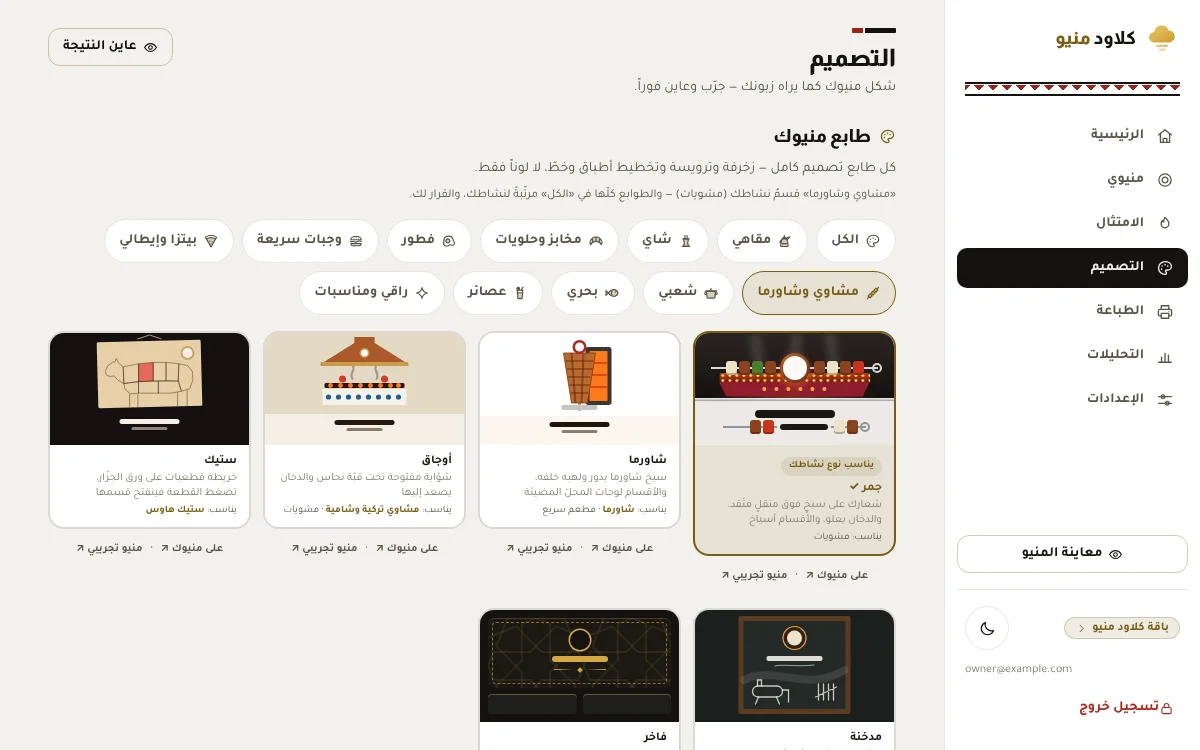
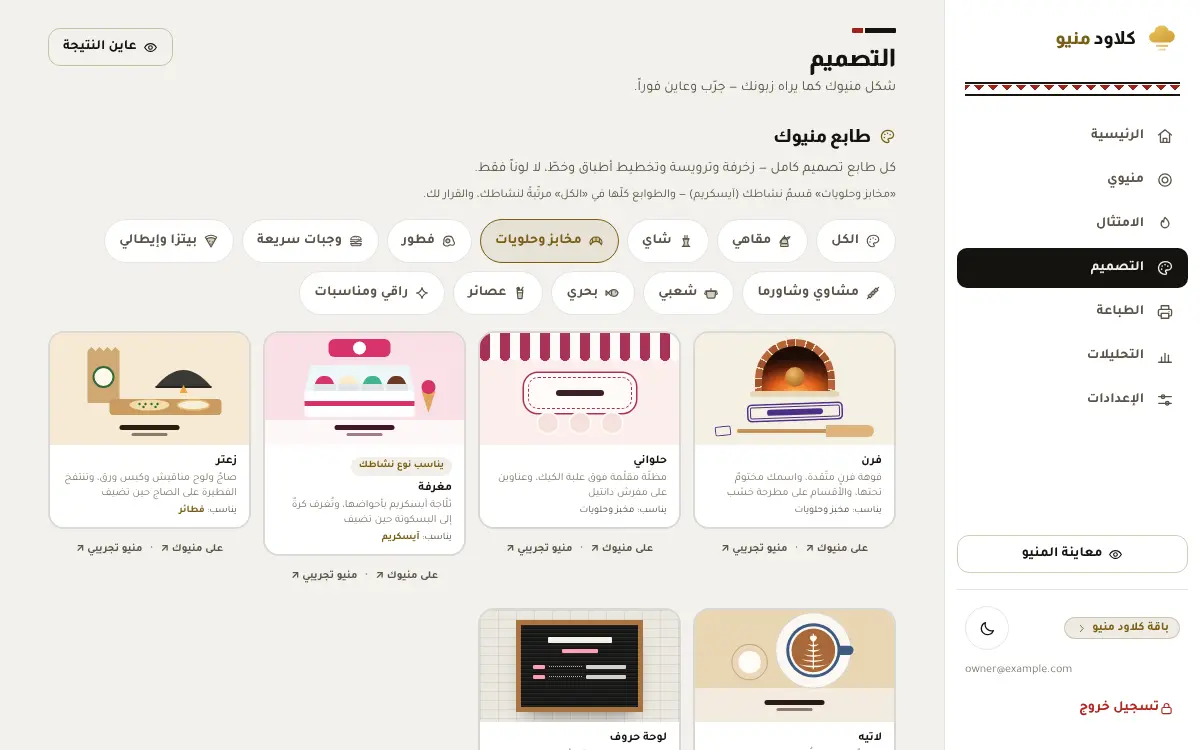
§18 والختام: ثمانية وثلاثون طابعاً — «مغرفة» و«عيدان» و«زعتر» (الموجة ب)
- مدخلٌ في docs/design.md §18 (الموجة ب): جدول الطوابع الثلاثة، والألوان والخطوط، والمنيوهات التجريبية،
  والصفوف الفرعية الثلاثة، وجدول الشارات النهائي للثمانية والثلاثين، والرفوف المتغيّرة، وأرقام الأداء.
- مقال الطوابع: ثلاثة أسطر في الجدول، وعناوين أقسامها، و«سوشي» و«آيسكريم» بين التخصّصات.
- أُعيد توليد غلاف المقال (cover.webp — الثمانية والثلاثون بألوانها من ALL_THEMES، بلا أوجاق وستيك ومدخنة)
  وصورته (themes.webp — صفحة «التصميم» لمحلّ آيسكريم) بنصٍّ بديلٍ وتعليقٍ جديدين؛ وصورة المشاركة og.png بـ«38».
- تعليق شبكة الهبوط: ٣٨ آخر صفّها اثنان على الأربعة والستّة — لا طابع وحيد.

Claude-Session: https://claude.ai/code/session_015gPK9ZWo1kTcZmq4ErZDy4

Changed region(s): [[0.0308, 0.3373, 0.7708, 1.0], [0.3392, 0.2453, 0.74, 0.368], [0.2158, 0.6133, 0.4008, 0.7973]]

diff --git a/app/src/content/articles/menu-themes-guide.html b/app/src/content/articles/menu-themes-guide.html
@@ -45,21 +45,24 @@
 <tr><td><strong>شاورما</strong></td><td>محلات الشاورما والوجبات السريعة</td><td>سيخ شاورما عمودي يدور وأنت تمرّر ولوح اللهب يتوهّج خلفه، وشعارك على قرص السيخ، وحين يضيف الزبون صنفاً تنزل السكّين وتتساقط الشرائح، والأقسام لوحات المحلّ المضيئة</td></tr>
 <tr><td><strong>سطل</strong></td><td>محلات البروست والدجاج المقلي</td><td>سطل مقلّم بلون علامتك يفيض بقطع البروست بين كوبَي صوص، وشعارك ملصقه، والأشعّة خلفه تدور وأنت تمرّر، وحين يضيف الزبون صنفاً تنغمس قطعة في الصوص الحارّ، والأقسام ملصقات علب الوجبات</td></tr>
 <tr><td><strong>سماش</strong></td><td>محلات السماش برجر</td><td>لافتة نيون بلون علامتك حول اسمك وشعارك فوق صاج حديد، والبرجر عليه طبقات تُبنى واحدة بعد واحدة وأنت تمرّر، وحين يضيف الزبون صنفاً ينزل المكبس على كرة اللحم</td></tr>
+<tr><td><strong>مغرفة</strong></td><td>محلات الآيسكريم والجيلاتو والحلى البارد</td><td>ثلّاجة عرض بأحواض نكهاتها تحت لافتة بلون علامتك وشعارك في وسطها، والمغرفة تنزلق فوق الأحواض وأنت تمرّر، وحين يضيف الزبون صنفاً تُغرف كرة وتستقرّ في البسكوتة، والأقسام بسكوتات يتبدّل لون كرتها من لون علامتك</td></tr>
+<tr><td><strong>عيدان</strong></td><td>مطاعم السوشي والمطبخ الآسيوي</td><td>ستارة مدخل بلون علامتك وشعارك في دائرتها، فوق لوح خشب عليه نيغيري وماكي وصحن صويا وعيدان، وسير ناقل تمرّ عليه الصحون وأنت تمرّر، وحين يضيف الزبون صنفاً تلتقط العيدان قطعة، والأقسام أختام حمراء برمز القسم</td></tr>
+<tr><td><strong>زعتر</strong></td><td>محلات المناقيش والفطائر</td><td>صاج على لهب ولوح خشب عليه عجينة تُفرد ويُرشّ عليها الزعتر وأنت تمرّر، وشعارك ختم على كيس ورق، وحين يضيف الزبون صنفاً تنتفخ المنقوشة على الصاج، والأقسام أرغفة منقوشة برمز القسم</td></tr>
 </tbody>
 </table>
 </div>
 
-<p>وتحت كلّ طابع <strong>ما يناسبه</strong>: نوع مكانك («مطعم» · «كافيه» · «شعبي»…)، أو <strong>تخصّصه</strong> إن كان لمكانٍ بعينه — «بيتزا» و«شاورما» و«بروست» و«قهوة مقطّرة» — فصاحب المطعم الذي لا نعرف نوعه يرى أوّلاً طوابع عامّة تصلح لكلّ مكان، وصاحب البيتزا يرى البيتزا أوّلاً.</p>
+<p>وتحت كلّ طابع <strong>ما يناسبه</strong>: نوع مكانك («مطعم» · «كافيه» · «شعبي»…)، أو <strong>تخصّصه</strong> إن كان لمكانٍ بعينه — «بيتزا» و«شاورما» و«بروست» و«سوشي» و«آيسكريم» و«قهوة مقطّرة» — فصاحب المطعم الذي لا نعرف نوعه يرى أوّلاً طوابع عامّة تصلح لكلّ مكان، وصاحب البيتزا يرى البيتزا أوّلاً.</p>
 
 <p>و«فاخر» هو شكل منيوك إن لم تختر شيئاً. وإن كنت اخترت طابعاً لم يعد في القائمة، فمنيوك على أقرب طابع منها <strong>بلون طابعك القديم نفسه</strong> — لا يتغيّر رابطك ولا كودك.</p>
 
-<p>ولكلّ طابع <strong>عنوان قسم بشكله</strong>: سطر منقّط في «فاتورة»، ولافتة تتوهّج في «نيون»، وحروف مصفوفة في «لوحة حروف»، ورقم كبير في «مجلّة»، ونافذة في «روشان»، وشريط سدو تحت فتحات الطين في «نجدي»، وبطاقة منشأ برقم دفعة ومسطرة تمتلئ بعدد الأصناف في «محمصة»، ورفّ خشب عليه صورة القسم وعدد أصنافه بالطباشير في «دكّان»، وإفريز مثلّثات وأشرطة في «عسير»، ومرساة وحبل ممدود إلى بطاقة سوق في «مرفأ»، ومفرش دانتيل في «حلواني»، وبلاطة بمربّع فاكهة في «عصّارة»، وصاج حديد يسيل منه الجبن في «صاج»، ومطرحة خبّاز في «فرن»، وصحن نحاس برمز القسم في «فوّال»، وسيخ بقطعه يمرّ خلف اسم القسم في «جمر»، وغطاء علبة بيتزا في «ريحان»، وفنجال يطلع بخاره وعدد الأصناف تمرة في «دلّة»، وكوب ورقي بختم محلّك وتذكرة طلب في «باريستا»، وكاسة كرك وسلك مصابيح إلى بطاقة صفيح في «كرك»، واستكانة على صحنها وحاشية سجّاد في «سماور»، وقمع صغير تسقط منه قطرة في «تقطير»، وفنجان برسمة القسم في «لاتيه»، وقرص درجة الطحن وكومة بنّ في «مطحنة»، وكوب بكمّه ولوحة مسار في «درايف»، وفوهة تتّقد وحطب مرصوص في «حطب»، وشريحة تخرج من دائرتها ولاصق توصيل في «علبة»، وشريط من لوحة الأسعار المضيئة في «شريحة»، وبلاطة برمز القسم وخطّ فرشاة في «نابولي»، ولوحة محلّ مضيئة في «شاورما»، وملصق علبة وجبة في «سطل»، وقرص لحم يُكبس إلى أنبوب نيون في «سماش». ومع العنوان عدد أصناف القسم، و<strong>غلافٌ من صور أطباقه</strong> في أغلب الطوابع — الطبق المميّز أوّلاً، ثم أوّل طبق بصورة. فلتغيير صورة القسم ميّز الطبق الذي تريده فيه. وإن لم تصوّر أطباقك بعد، فالعنوان يُرسم بلا صورة ولا يبدو ناقصاً.</p>
+<p>ولكلّ طابع <strong>عنوان قسم بشكله</strong>: سطر منقّط في «فاتورة»، ولافتة تتوهّج في «نيون»، وحروف مصفوفة في «لوحة حروف»، ورقم كبير في «مجلّة»، ونافذة في «روشان»، وشريط سدو تحت فتحات الطين في «نجدي»، وبطاقة منشأ برقم دفعة ومسطرة تمتلئ بعدد الأصناف في «محمصة»، ورفّ خشب عليه صورة القسم وعدد أصنافه بالطباشير في «دكّان»، وإفريز مثلّثات وأشرطة في «عسير»، ومرساة وحبل ممدود إلى بطاقة سوق في «مرفأ»، ومفرش دانتيل في «حلواني»، وبلاطة بمربّع فاكهة في «عصّارة»، وصاج حديد يسيل منه الجبن في «صاج»، ومطرحة خبّاز في «فرن»، وصحن نحاس برمز القسم في «فوّال»، وسيخ بقطعه يمرّ خلف اسم القسم في «جمر»، وغطاء علبة بيتزا في «ريحان»، وفنجال يطلع بخاره وعدد الأصناف تمرة في «دلّة»، وكوب ورقي بختم محلّك وتذكرة طلب في «باريستا»، وكاسة كرك وسلك مصابيح إلى بطاقة صفيح في «كرك»، واستكانة على صحنها وحاشية سجّاد في «سماور»، وقمع صغير تسقط منه قطرة في «تقطير»، وفنجان برسمة القسم في «لاتيه»، وقرص درجة الطحن وكومة بنّ في «مطحنة»، وكوب بكمّه ولوحة مسار في «درايف»، وفوهة تتّقد وحطب مرصوص في «حطب»، وشريحة تخرج من دائرتها ولاصق توصيل في «علبة»، وشريط من لوحة الأسعار المضيئة في «شريحة»، وبلاطة برمز القسم وخطّ فرشاة في «نابولي»، ولوحة محلّ مضيئة في «شاورما»، وملصق علبة وجبة في «سطل»، وقرص لحم يُكبس إلى أنبوب نيون في «سماش»، وبسكوتة بكرة يتبدّل لونها في «مغرفة»، وختم أحمر وضربة فرشاة في «عيدان»، ورغيف منقوشة برمز القسم في «زعتر». ومع العنوان عدد أصناف القسم، و<strong>غلافٌ من صور أطباقه</strong> في أغلب الطوابع — الطبق المميّز أوّلاً، ثم أوّل طبق بصورة. فلتغيير صورة القسم ميّز الطبق الذي تريده فيه. وإن لم تصوّر أطباقك بعد، فالعنوان يُرسم بلا صورة ولا يبدو ناقصاً.</p>
 
 <p>والحركة في الطوابع لا تُثقل المنيو: كلّها بلا سكربت، وتتوقّف تماماً على أيّ جوال طلب صاحبه تقليل الحركة.</p>
 
 <figure>
-<img src="/blog/menu-themes-guide/themes.webp" alt="قسم «مشاوي وشاورما» في صفحة التصميم بلوحة كلاود منيو: جمر وشاورما وأوجاق وستيك ومدخنة وفاخر، لكل طابع معاينة واسم ووصف وما يناسبه" width="1200" height="750" loading="lazy">
-<figcaption>صفحة «التصميم» لمطعم مشويات: تنفتح على قسم نشاطك والمقترح أوّلاً، ولكلّ طابع معاينته واسمه وما يناسبه — والتخصّص بلونٍ مختلف («شاورما» · «ستيك هاوس») — و«منيو تجريبي» يفتحه كاملاً، و«على منيوك» يلبسه منيوك أنت.</figcaption>
+<img src="/blog/menu-themes-guide/themes.webp" alt="قسم «مخابز وحلويات» في صفحة التصميم بلوحة كلاود منيو لمحلّ آيسكريم: فرن وحلواني ومغرفة وزعتر ولاتيه ولوحة حروف، لكل طابع معاينة واسم ووصف وما يناسبه" width="1200" height="750" loading="lazy">
+<figcaption>صفحة «التصميم» لمحلّ آيسكريم: تنفتح على قسم نشاطك والمقترح عليه «يناسب نوع نشاطك» — «مغرفة» هنا — ولكلّ طابع معاينته واسمه وما يناسبه، والتخصّص بلونٍ مختلف («آيسكريم» · «فطائر»)، و«منيو تجريبي» يفتحه كاملاً، و«على منيوك» يلبسه منيوك أنت.</figcaption>
 </figure>
 
 <h2>شكل عرض الأطباق</h2>

diff --git a/app/src/components/landing/LiveMenu.tsx b/app/src/components/landing/LiveMenu.tsx
@@ -129,7 +129,7 @@ export function BrandControls({ brand, onChange }: { brand: Brand; onChange: (b:
 
       <p className="mt-4 text-xs font-bold text-dim">الطابع</p>
       {/* أربعة أعمدة (ستّة على الشاشة العريضة) — كانت خمسةً حتى ٠٩/١١، فتركت الستّة والثلاثون طابعاً
-          وحيداً في آخر صفّ. والخمسة والثلاثون (١١/١١) آخر صفّها ثلاثةٌ وخمسة: لا طابع وحيد على الاثنين.
+          وحيداً في آخر صفّ. والثمانية والثلاثون (١١/١١) آخر صفّها اثنان على الاثنين: لا طابع وحيد.
           وفي الخانة يعلو الاسمَ قرصُ لون الطابع: أرضيته وحلقة تمييزه، فتُقرأ الشبكة
           لوحةَ ألوانٍ قبل أن تُقرأ أسماءً (تدقيق ٢٠٢٦/١١/٠٧). */}
       <div className="mt-2 grid grid-cols-4 gap-1.5 sm:grid-cols-6 sm:gap-2" role="radiogroup" aria-label="طابع المنيو">
